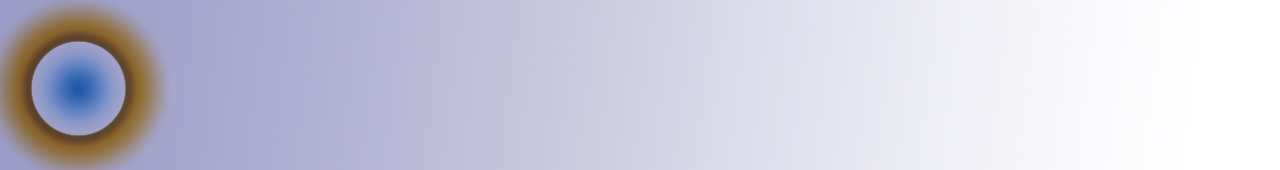
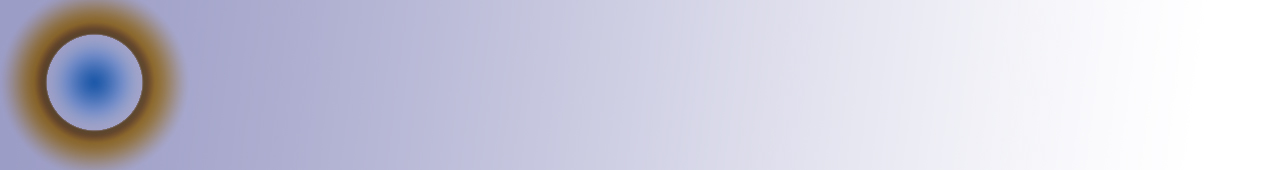
Teste 1

Changed region(s): [[0.0, 0.0, 0.1562, 1.0]]

diff --git a/assets/css/index.css b/assets/css/index.css
@@ -48,7 +48,7 @@ a:link {
     width: 100%;
     height: 170px;
     margin: 0;
-    background-image: url("https://github.com/gabriel-plata/gabriel-plata.github.io/raw/master/assets/images/fundo-1.jpg");
+    background-image: url("https://github.com/gabriel-plata/gabriel-plata.github.io/raw/master/assets/images/Sem%20T%C3%ADtulo-2.jpg");
     background-size: cover;
 }
 
